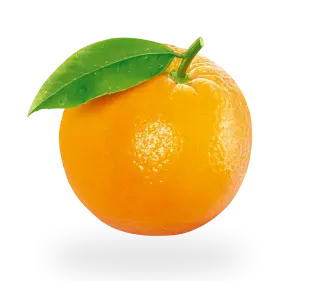
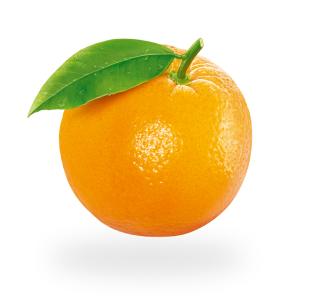
orpanoc22

Changed region(s): [[0.0608, 0.1139, 0.7903, 0.8541], [0.3951, 0.3701, 0.5775, 0.6263]]

diff --git a/src/partials/organic-fruits.html b/src/partials/organic-fruits.html
@@ -16,9 +16,9 @@
           </div>
           <div class="block-foto">
             <img srcset="
-                /img/organicfruits/strawberry@1x.png 1x,
-                /img/organicfruits/strawberry@2x.png 2x
-              " src="/img/organicfruits/strawberry.png" alt="Strawberry" width="295" height="251" />
+                /img/organicfruits/strawberry@1x.webp 1x,
+                /img/organicfruits/strawberry@2x.webp 2x
+              " src="/img/organicfruits/strawberry.webp" alt="Strawberry" width="295" height="251" />
           </div>
           <div class="block-pay">
             <h2 class="mony-pay">100 UAH/kg</h2>
@@ -50,9 +50,9 @@
           </div>
           <div class="block-foto">
             <img srcset="
-                /img/organicfruits/watermelon@1x.png 1x,
-                /img/organicfruits/watermelon@2x.png 2x
-              " src="/img/organicfruits/watermelon.png" alt="Watermelon" width="295" height="251" />
+                /img/organicfruits/watermelon@1x.webp 1x,
+                /img/organicfruits/watermelon@2x.webp 2x
+              " src="/img/organicfruits/watermelon.webp" alt="Watermelon" width="295" height="251" />
           </div>
           <div class="block-pay">
             <h2 class="mony-pay">40 UAH/kg</h2>
@@ -84,9 +84,9 @@
           </div>
           <div class="block-foto">
             <img srcset="
-                /img/organicfruits/apple@1x.png 1x,
-                /img/organicfruits/apple@2x.png 2x
-              " src="/img/organicfruits/apple.png" alt="Apple" width="295" height="251" />
+                /img/organicfruits/apple@1x.webp 1x,
+                /img/organicfruits/apple@2x.webp 2x
+              " src="/img/organicfruits/apple.webp" alt="Apple" width="295" height="251" />
           </div>
           <div class="block-pay">
             <h2 class="mony-pay">50 UAH/kg</h2>
@@ -135,9 +135,9 @@
           </div>
           <div class="block-foto">
             <img srcset="
-                /img/organicfruits/orange@1x.png 1x,
-                /img/organicfruits/orange@2x.png 2x
-              " src="/img/organicfruits/orange.png" alt="Orange" width="295" height="251" />
+                /img/organicfruits/orange@1x.webp 1x,
+                /img/organicfruits/orange@2x.webp 2x
+              " src="/img/organicfruits/orange.webp" alt="Orange" width="295" height="251" />
           </div>
           <div class="block-pay">
             <h2 class="mony-pay">60 UAH/kg</h2>
